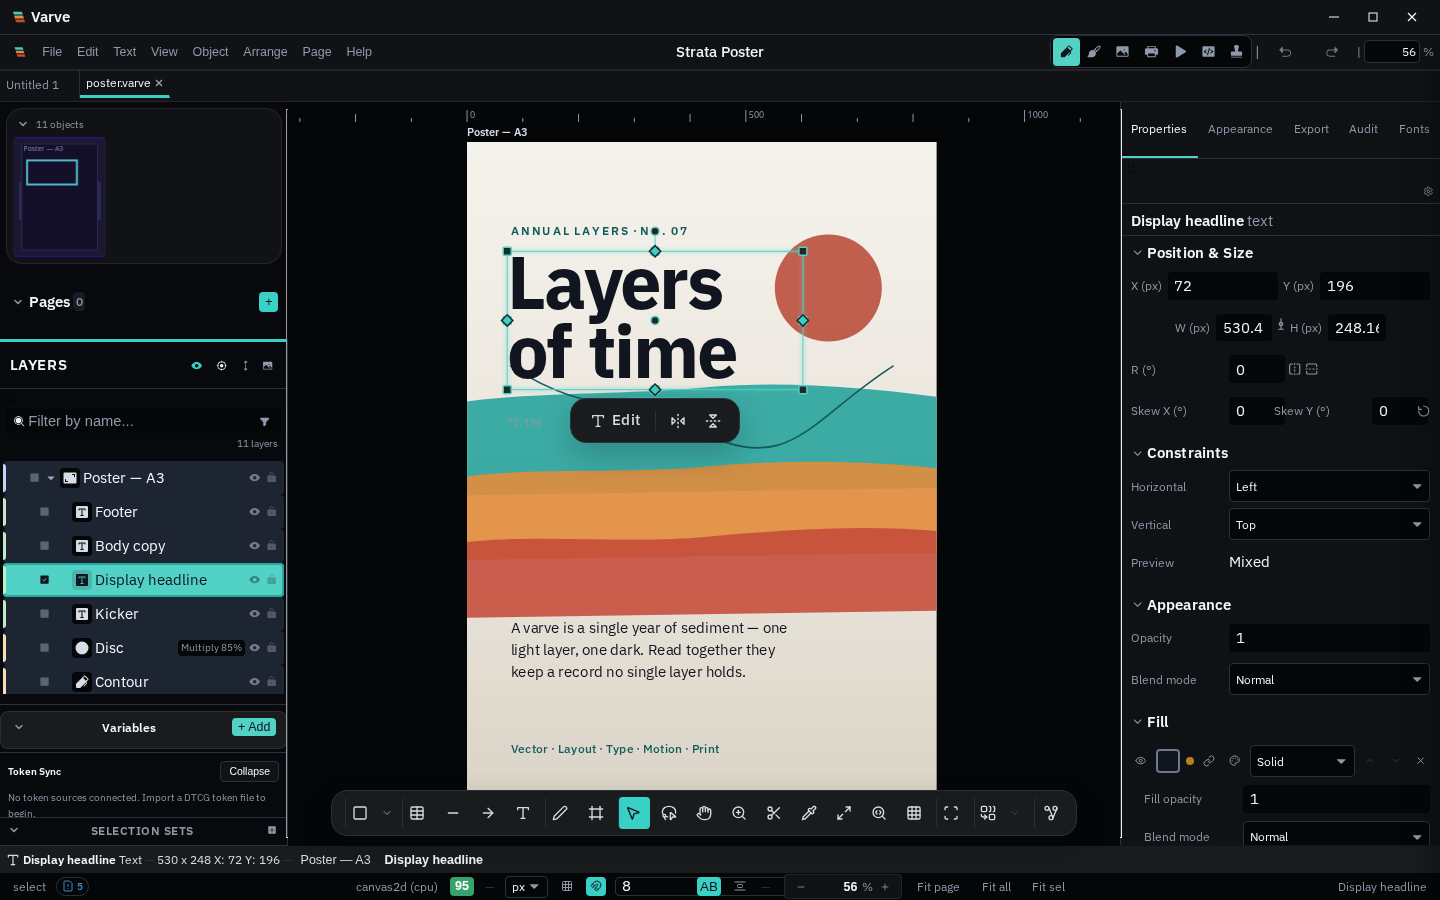
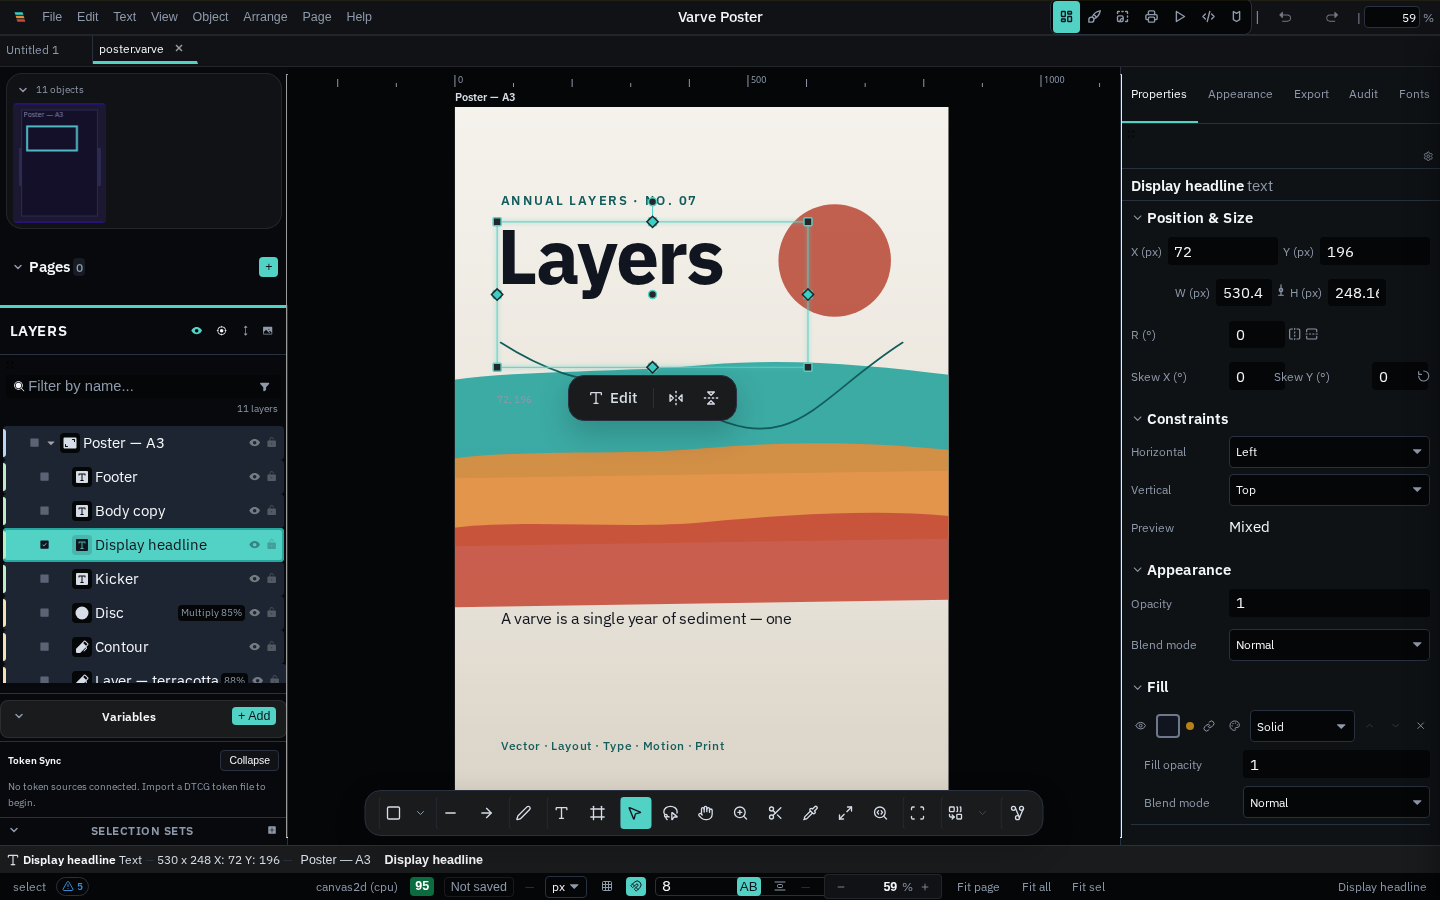
fix(brand): regenerate product screenshots without Strata document/layer names
The screenshot pipeline's demo document was named "Strata Poster" with
layers "Strata — teal/sandstone/terracotta", visible verbatim in the
real product screenshots used in the README and website (title bar,
layers panel). Renamed to "Varve Poster" / "Layer — teal" etc. and
regenerated the .varve fixture and the affected PNGs from the running
app via the existing deterministic capture pipeline.

diff --git a/scripts/screenshots/demo-document.ts b/scripts/screenshots/demo-document.ts
@@ -100,7 +100,7 @@ function seeded(doc: Document, id: string, name: string): Document {
  * with oklab interpolation, path geometry and text styling in one document.
  */
 export function createPosterDocument(): Document {
-  let doc = seeded(createDocument('Strata Poster', true), 'varve-demo-poster', 'Strata Poster');
+  let doc = seeded(createDocument('Varve Poster', true), 'varve-demo-poster', 'Varve Poster');
 
   const frame = makeFrameNode('poster-frame', {
     name: 'Poster — A3',
@@ -138,11 +138,11 @@ export function createPosterDocument(): Document {
     ],
   });
 
-  // Strata: three sediment bands, the mark's core idea.
+  // Varve: three sediment bands, the mark's core idea.
   const bands: [string, ManagedColor, number, number, number][] = [
-    ['Strata — teal', TEAL, 470, 150, 0.92],
-    ['Strata — sandstone', SAND, 604, 132, 0.9],
-    ['Strata — terracotta', TERRA, 722, 118, 0.88],
+    ['Layer — teal', TEAL, 470, 150, 0.92],
+    ['Layer — sandstone', SAND, 604, 132, 0.9],
+    ['Layer — terracotta', TERRA, 722, 118, 0.88],
   ];
   bands.forEach(([name, color, y, h, opacity], i) => {
     const band = makeShapeNode(
